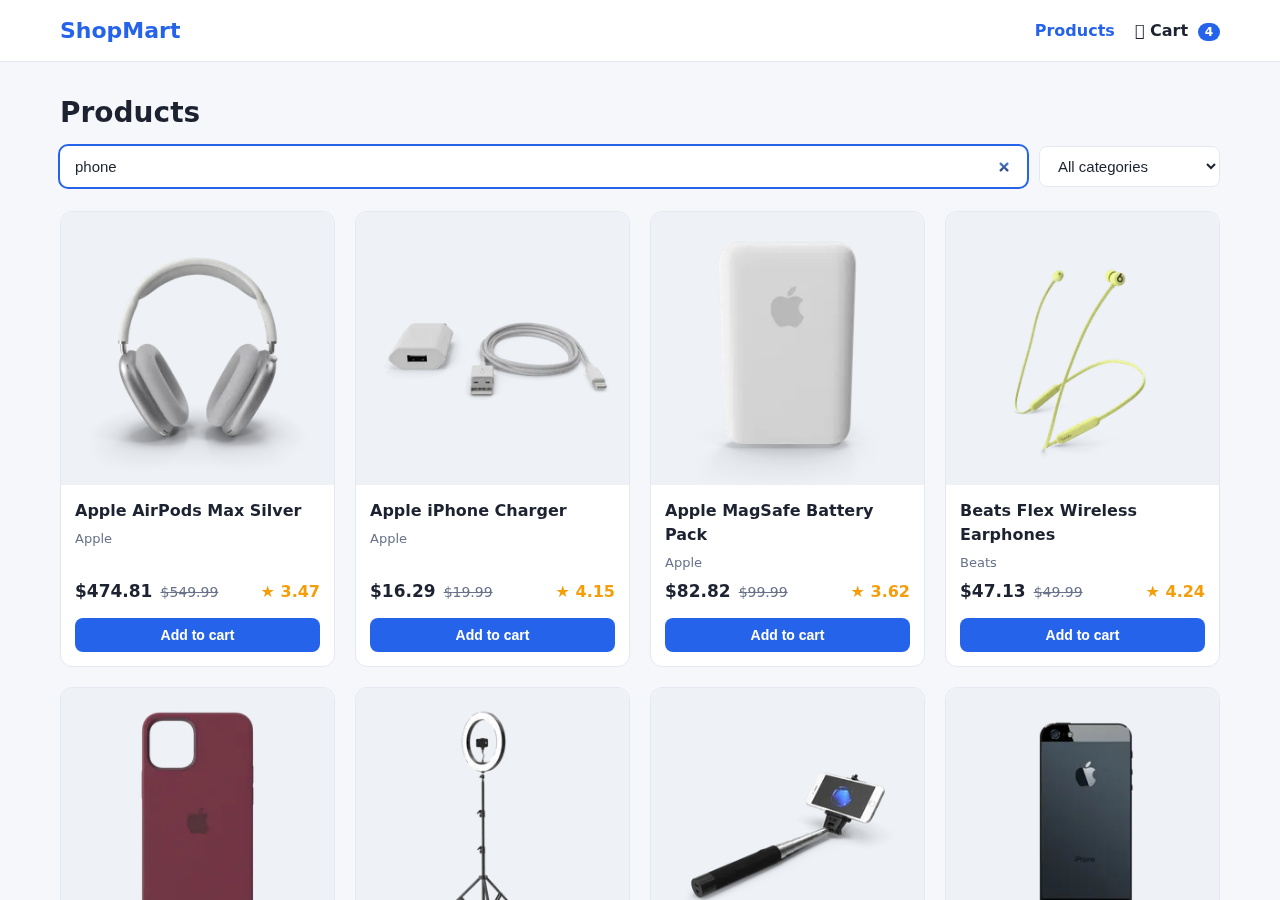
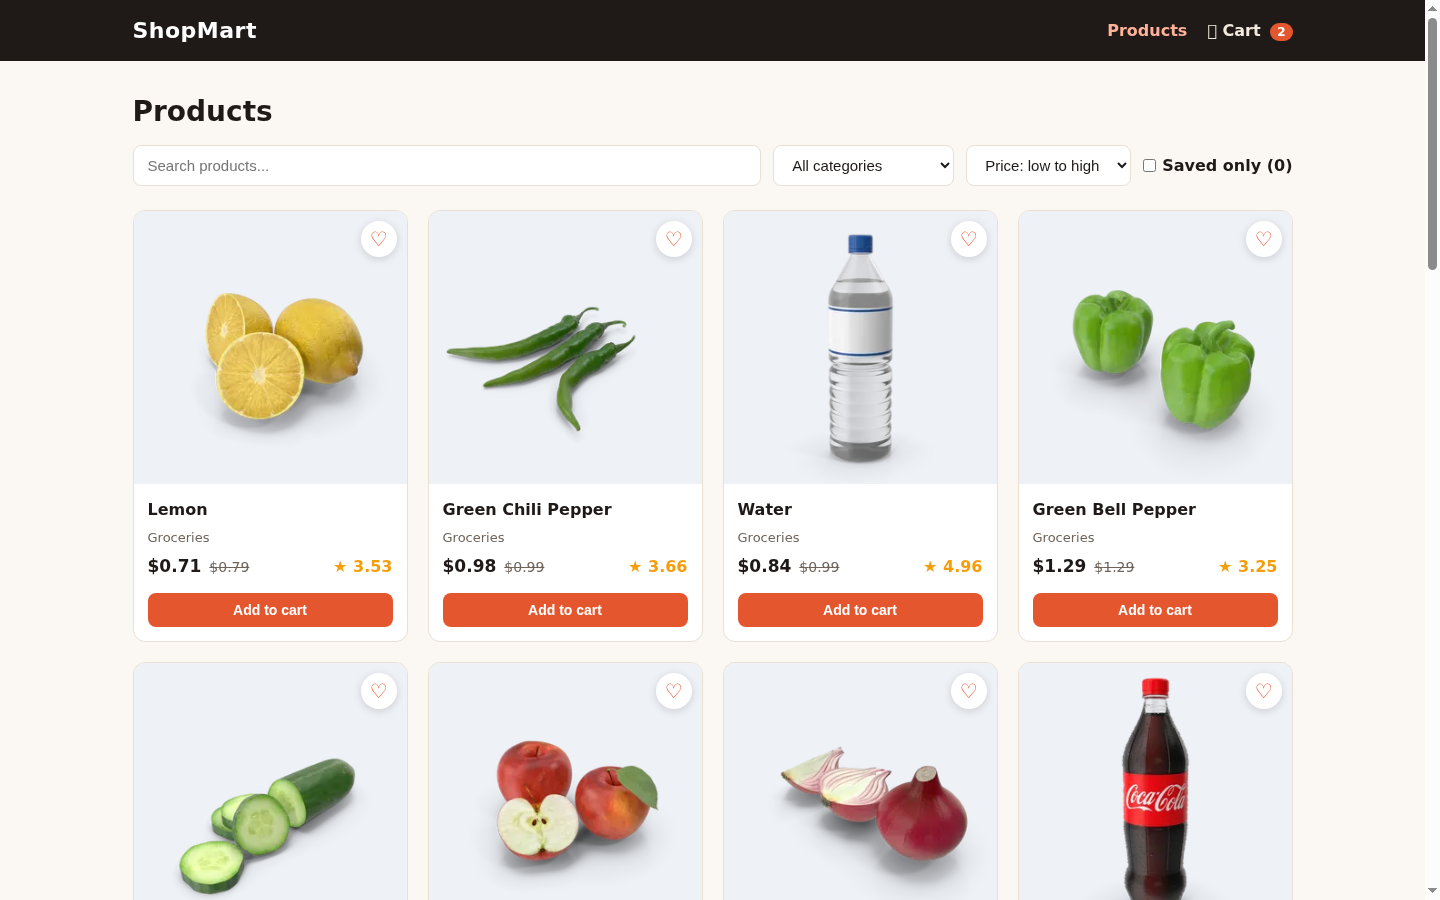
ShopMart 1.1: sort, saved items, promo code, validated demo checkout, warm redesign

diff --git a/src/pages/Cart.jsx b/src/pages/Cart.jsx
@@ -1,13 +1,53 @@
+import { useState } from 'react'
 import { Link } from 'react-router-dom'
 import { useCart } from '../cart/CartContext'
 
 export default function Cart() {
   const { items, setQuantity, removeFromCart, clearCart, total } = useCart()
+  const [code, setCode] = useState('')
+  const [coupon, setCoupon] = useState(null)
+  const [couponMsg, setCouponMsg] = useState('')
+  const [form, setForm] = useState({ name: '', email: '', address: '' })
+  const [errors, setErrors] = useState({})
+  const [open, setOpen] = useState(false)
+  const [order, setOrder] = useState(() => {
+    try { return JSON.parse(localStorage.getItem('shop-app-last-order')) } catch { return null }
+  })
+  const [justPlaced, setJustPlaced] = useState(false)
+  const discount = coupon ? total * coupon.rate : 0
+  const shipping = total - discount >= 50 || total === 0 ? 0 : 4.99
+  const grand = total - discount + shipping
+
+  const applyCoupon = (e) => {
+    e.preventDefault()
+    const c = code.trim().toUpperCase()
+    if (c === 'WELCOME10') { setCoupon({ code: c, rate: 0.1 }); setCouponMsg('10% off applied.') }
+    else { setCoupon(null); setCouponMsg('Code not valid. Try WELCOME10.') }
+  }
+
+  const placeOrder = (e) => {
+    e.preventDefault()
+    const er = {}
+    if (form.name.trim().length < 2) er.name = 'Enter your name.'
+    if (!/^\S+@\S+\.\S+$/.test(form.email)) er.email = 'Enter a valid email.'
+    if (form.address.trim().length < 6) er.address = 'Enter your address.'
+    setErrors(er)
+    if (Object.keys(er).length) return
+    const o = { id: 'SM-' + Math.random().toString(36).slice(2, 8).toUpperCase(), name: form.name.trim(), total: grand.toFixed(2), count: items.reduce((n, i) => n + i.quantity, 0), date: new Date().toLocaleString() }
+    localStorage.setItem('shop-app-last-order', JSON.stringify(o))
+    setOrder(o); setJustPlaced(true); setOpen(false); clearCart()
+  }
 
   if (items.length === 0) {
     return (
       <section className="page-header">
         <h1>Your cart</h1>
+        {order && (
+          <div className="order-box" role="status">
+            <strong>{justPlaced ? 'Order placed (demo)' : 'Last demo order'}: {order.id}</strong>
+            <p>{order.count} item(s), ${order.total}, {order.date}. No payment was taken.</p>
+          </div>
+        )}
         <p className="empty-state">
           Your cart is empty. <Link to="/">Browse products</Link> to fill it up.
         </p>
@@ -43,9 +83,29 @@ export default function Cart() {
         <aside className="cart-summary">
           <h2>Order summary</h2>
           <div className="summary-row"><span>Subtotal</span><span>${total.toFixed(2)}</span></div>
-          <div className="summary-row"><span>Shipping</span><span>Free</span></div>
-          <div className="summary-row summary-total"><span>Total</span><span>${total.toFixed(2)}</span></div>
-          <button className="btn btn-block btn-big" onClick={() => alert('Checkout is a demo - no payment is processed.')}>Checkout</button>
+          {coupon && <div className="summary-row"><span>{coupon.code}</span><span>-${discount.toFixed(2)}</span></div>}
+          <div className="summary-row"><span>Shipping</span><span>{shipping ? `$${shipping.toFixed(2)}` : 'Free'}</span></div>
+          <div className="summary-row summary-total"><span>Total</span><span>${grand.toFixed(2)}</span></div>
+          <p className="muted small">Free shipping over $50.</p>
+          <form className="coupon" onSubmit={applyCoupon}>
+            <input placeholder="Promo code" value={code} onChange={(e) => setCode(e.target.value)} aria-label="Promo code" />
+            <button className="btn btn-outline">Apply</button>
+          </form>
+          {couponMsg && <p className="muted small">{couponMsg}</p>}
+          {!open ? (
+            <button className="btn btn-block btn-big" onClick={() => setOpen(true)}>Checkout</button>
+          ) : (
+            <form className="checkout" onSubmit={placeOrder} noValidate>
+              {['name', 'email', 'address'].map((k) => (
+                <label key={k}>{k[0].toUpperCase() + k.slice(1)}
+                  <input value={form[k]} onChange={(e) => setForm({ ...form, [k]: e.target.value })} />
+                  {errors[k] && <span className="err">{errors[k]}</span>}
+                </label>
+              ))}
+              <button className="btn btn-block btn-big">Place demo order</button>
+              <p className="muted small">Demo only. No payment is processed.</p>
+            </form>
+          )}
         </aside>
       </div>
     </>

diff --git a/src/pages/Home.jsx b/src/pages/Home.jsx
@@ -13,11 +13,13 @@ export default function Home() {
   const [category, setCategory] = useState('')
   const [query, setQuery] = useState('')
   const [debouncedQuery, setDebouncedQuery] = useState('')
+  const [sort, setSort] = useState('')
   const [page, setPage] = useState(0)
   const [total, setTotal] = useState(0)
   const [loading, setLoading] = useState(true)
   const [error, setError] = useState('')
-  const { addToCart } = useCart()
+  const { addToCart, favs, toggleFav } = useCart()
+  const [onlyFav, setOnlyFav] = useState(false)
 
   useEffect(() => {
     getCategories().then(setCategories).catch(() => {})
@@ -37,6 +39,7 @@ export default function Home() {
       skip: page * PAGE_SIZE,
       category: category || undefined,
       query: debouncedQuery || undefined,
+      sort: sort || undefined,
     })
       .then((data) => {
         if (cancelled) return
@@ -46,8 +49,9 @@ export default function Home() {
       .catch(() => !cancelled && setError('Could not load products. Check your connection and try again.'))
       .finally(() => !cancelled && setLoading(false))
     return () => { cancelled = true }
-  }, [page, category, debouncedQuery])
+  }, [page, category, debouncedQuery, sort])
 
+  const shown = onlyFav ? products.filter((p) => favs.includes(p.id)) : products
   const totalPages = Math.ceil(total / PAGE_SIZE)
 
   return (
@@ -74,19 +78,35 @@ export default function Home() {
               <option key={c} value={c}>{c.replace(/-/g, ' ')}</option>
             ))}
           </select>
+          <select
+            className="category-select"
+            value={sort}
+            onChange={(e) => { setSort(e.target.value); setPage(0) }}
+            aria-label="Sort products"
+          >
+            <option value="">Sort: featured</option>
+            <option value="price:asc">Price: low to high</option>
+            <option value="price:desc">Price: high to low</option>
+            <option value="rating:desc">Top rated</option>
+            <option value="title:asc">Name A to Z</option>
+          </select>
+          <label className="fav-toggle">
+            <input type="checkbox" checked={onlyFav} onChange={(e) => setOnlyFav(e.target.checked)} />
+            Saved only ({favs.length})
+          </label>
         </div>
       </section>
       {loading ? (
         <Spinner />
       ) : error ? (
         <ErrorBox message={error} onRetry={() => setPage((p) => p)} />
-      ) : products.length === 0 ? (
-        <p className="empty-state">No products match your search.</p>
+      ) : shown.length === 0 ? (
+        <p className="empty-state">{onlyFav ? 'None of the products on this page are saved yet.' : 'No products match your search.'}</p>
       ) : (
         <>
           <div className="product-grid">
-            {products.map((product) => (
-              <ProductCard key={product.id} product={product} onAdd={addToCart} />
+            {shown.map((product) => (
+              <ProductCard key={product.id} product={product} onAdd={addToCart} fav={favs.includes(product.id)} onFav={toggleFav} />
             ))}
           </div>
           {totalPages > 1 && (

diff --git a/src/index.css b/src/index.css
@@ -1,11 +1,11 @@
 :root {
-  --bg: #f6f7fb;
+  --bg: #fbf7f2;
   --surface: #ffffff;
-  --text: #1c2230;
-  --muted: #68738a;
-  --accent: #2563eb;
-  --accent-hover: #1d4fd7;
-  --border: #e4e8f0;
+  --text: #1f1a17;
+  --muted: #6f645b;
+  --accent: #e4572e;
+  --accent-hover: #c7431f;
+  --border: #eadfd3;
   --star: #f59e0b;
   --danger: #dc2626;
 }
@@ -201,3 +201,20 @@ body {
 @media (max-width: 520px) {
   .product-grid { grid-template-columns: repeat(auto-fill, minmax(150px, 1fr)); gap: 12px; }
 }
+
+/* v2 */
+.navbar { background: #1f1a17; border-bottom: 0; }
+.brand { color: #fff; letter-spacing: .5px; }
+.nav-links a { color: #f3e9de; }
+.nav-links a.active { color: #ffb199; }
+.product-card { position: relative; }
+.fav-btn { position: absolute; top: 10px; right: 10px; width: 36px; height: 36px; border-radius: 50%; border: 0; background: #fff; color: var(--accent); font-size: 20px; cursor: pointer; box-shadow: 0 2px 8px rgba(0,0,0,.15); }
+.fav-btn.on { background: var(--accent); color: #fff; }
+.fav-toggle { display: flex; align-items: center; gap: 6px; font-weight: 600; }
+.small { font-size: 13px; margin: 6px 0; }
+.coupon { display: flex; gap: 8px; margin: 10px 0; }
+.coupon input, .checkout input { width: 100%; padding: 9px 12px; border: 1px solid var(--border); border-radius: 8px; font: inherit; }
+.checkout { display: grid; gap: 10px; margin-top: 12px; }
+.checkout label { display: grid; gap: 4px; font-weight: 600; font-size: 14px; }
+.err { color: var(--danger); font-weight: 400; font-size: 13px; }
+.order-box { background: #e9f6ec; border: 1px solid #b9dfc1; border-radius: 10px; padding: 14px 16px; margin: 12px 0; }

diff --git a/src/cart/CartContext.jsx b/src/cart/CartContext.jsx
@@ -1,4 +1,4 @@
-import { createContext, useContext, useEffect, useReducer } from 'react'
+import { createContext, useContext, useEffect, useReducer, useState } from 'react'
 
 const CartContext = createContext(null)
 const STORAGE_KEY = 'shop-app-cart'
@@ -44,6 +44,12 @@ export function CartProvider({ children }) {
     localStorage.setItem(STORAGE_KEY, JSON.stringify(items))
   }, [items])
 
+  const [favs, setFavs] = useState(() => {
+    try { return JSON.parse(localStorage.getItem('shop-app-favs')) || [] } catch { return [] }
+  })
+  useEffect(() => { localStorage.setItem('shop-app-favs', JSON.stringify(favs)) }, [favs])
+  const toggleFav = (id) => setFavs((f) => (f.includes(id) ? f.filter((x) => x !== id) : [...f, id]))
+
   const addToCart = (product) => dispatch({ type: 'add', product })
   const removeFromCart = (id) => dispatch({ type: 'remove', id })
   const setQuantity = (id, quantity) => dispatch({ type: 'setQuantity', id, quantity })
@@ -53,7 +59,7 @@ export function CartProvider({ children }) {
   const total = items.reduce((sum, item) => sum + item.price * item.quantity, 0)
 
   return (
-    <CartContext.Provider value={{ items, addToCart, removeFromCart, setQuantity, clearCart, count, total }}>
+    <CartContext.Provider value={{ favs, toggleFav, items, addToCart, removeFromCart, setQuantity, clearCart, count, total }}>
       {children}
     </CartContext.Provider>
   )

diff --git a/src/components/ProductCard.jsx b/src/components/ProductCard.jsx
@@ -1,6 +1,6 @@
 import { Link } from 'react-router-dom'
 
-export default function ProductCard({ product, onAdd }) {
+export default function ProductCard({ product, onAdd, fav, onFav }) {
   const discounted = product.discountPercentage
     ? (product.price * (1 - product.discountPercentage / 100)).toFixed(2)
     : null
@@ -10,6 +10,12 @@ export default function ProductCard({ product, onAdd }) {
       <Link to={`/product/${product.id}`} className="product-thumb-link">
         <img src={product.thumbnail} alt={product.title} loading="lazy" />
       </Link>
+      <button
+        className={`fav-btn${fav ? ' on' : ''}`}
+        onClick={() => onFav(product.id)}
+        aria-pressed={!!fav}
+        aria-label={fav ? 'Remove from saved' : 'Save for later'}
+      >{fav ? '♥' : '♡'}</button>
       <div className="product-card-body">
         <Link to={`/product/${product.id}`} className="product-title">{product.title}</Link>
         <p className="product-brand">{product.brand || product.category}</p>

diff --git a/src/api.js b/src/api.js
@@ -2,11 +2,11 @@ import axios from 'axios'
 
 const api = axios.create({ baseURL: 'https://dummyjson.com' })
 
-export async function getProducts({ limit = 24, skip = 0, category, query } = {}) {
+export async function getProducts({ limit = 24, skip = 0, category, query, sort } = {}) {
   let url = '/products'
   if (query) url = '/products/search'
   else if (category) url = `/products/category/${encodeURIComponent(category)}`
-  const { data } = await api.get(url, { params: { limit, skip, q: query } })
+  const { data } = await api.get(url, { params: { limit, skip, q: query, ...(sort ? { sortBy: sort.split(':')[0], order: sort.split(':')[1] } : {}) } })
   return data
 }
 

diff --git a/README.md b/README.md
@@ -8,6 +8,8 @@ product details, and manage a shopping cart that survives page reloads.
 
 ## Features
 
+- Sort by price, rating or name, plus a Saved (wishlist) heart kept in `localStorage`
+- Promo code (`WELCOME10`), shipping rule (free over $50) and a validated demo checkout that stores the last order
 - Product catalog with pagination, powered by the live DummyJSON API
 - Live search across product titles and descriptions
 - Category filtering (beauty, fragrances, furniture, groceries and more)
